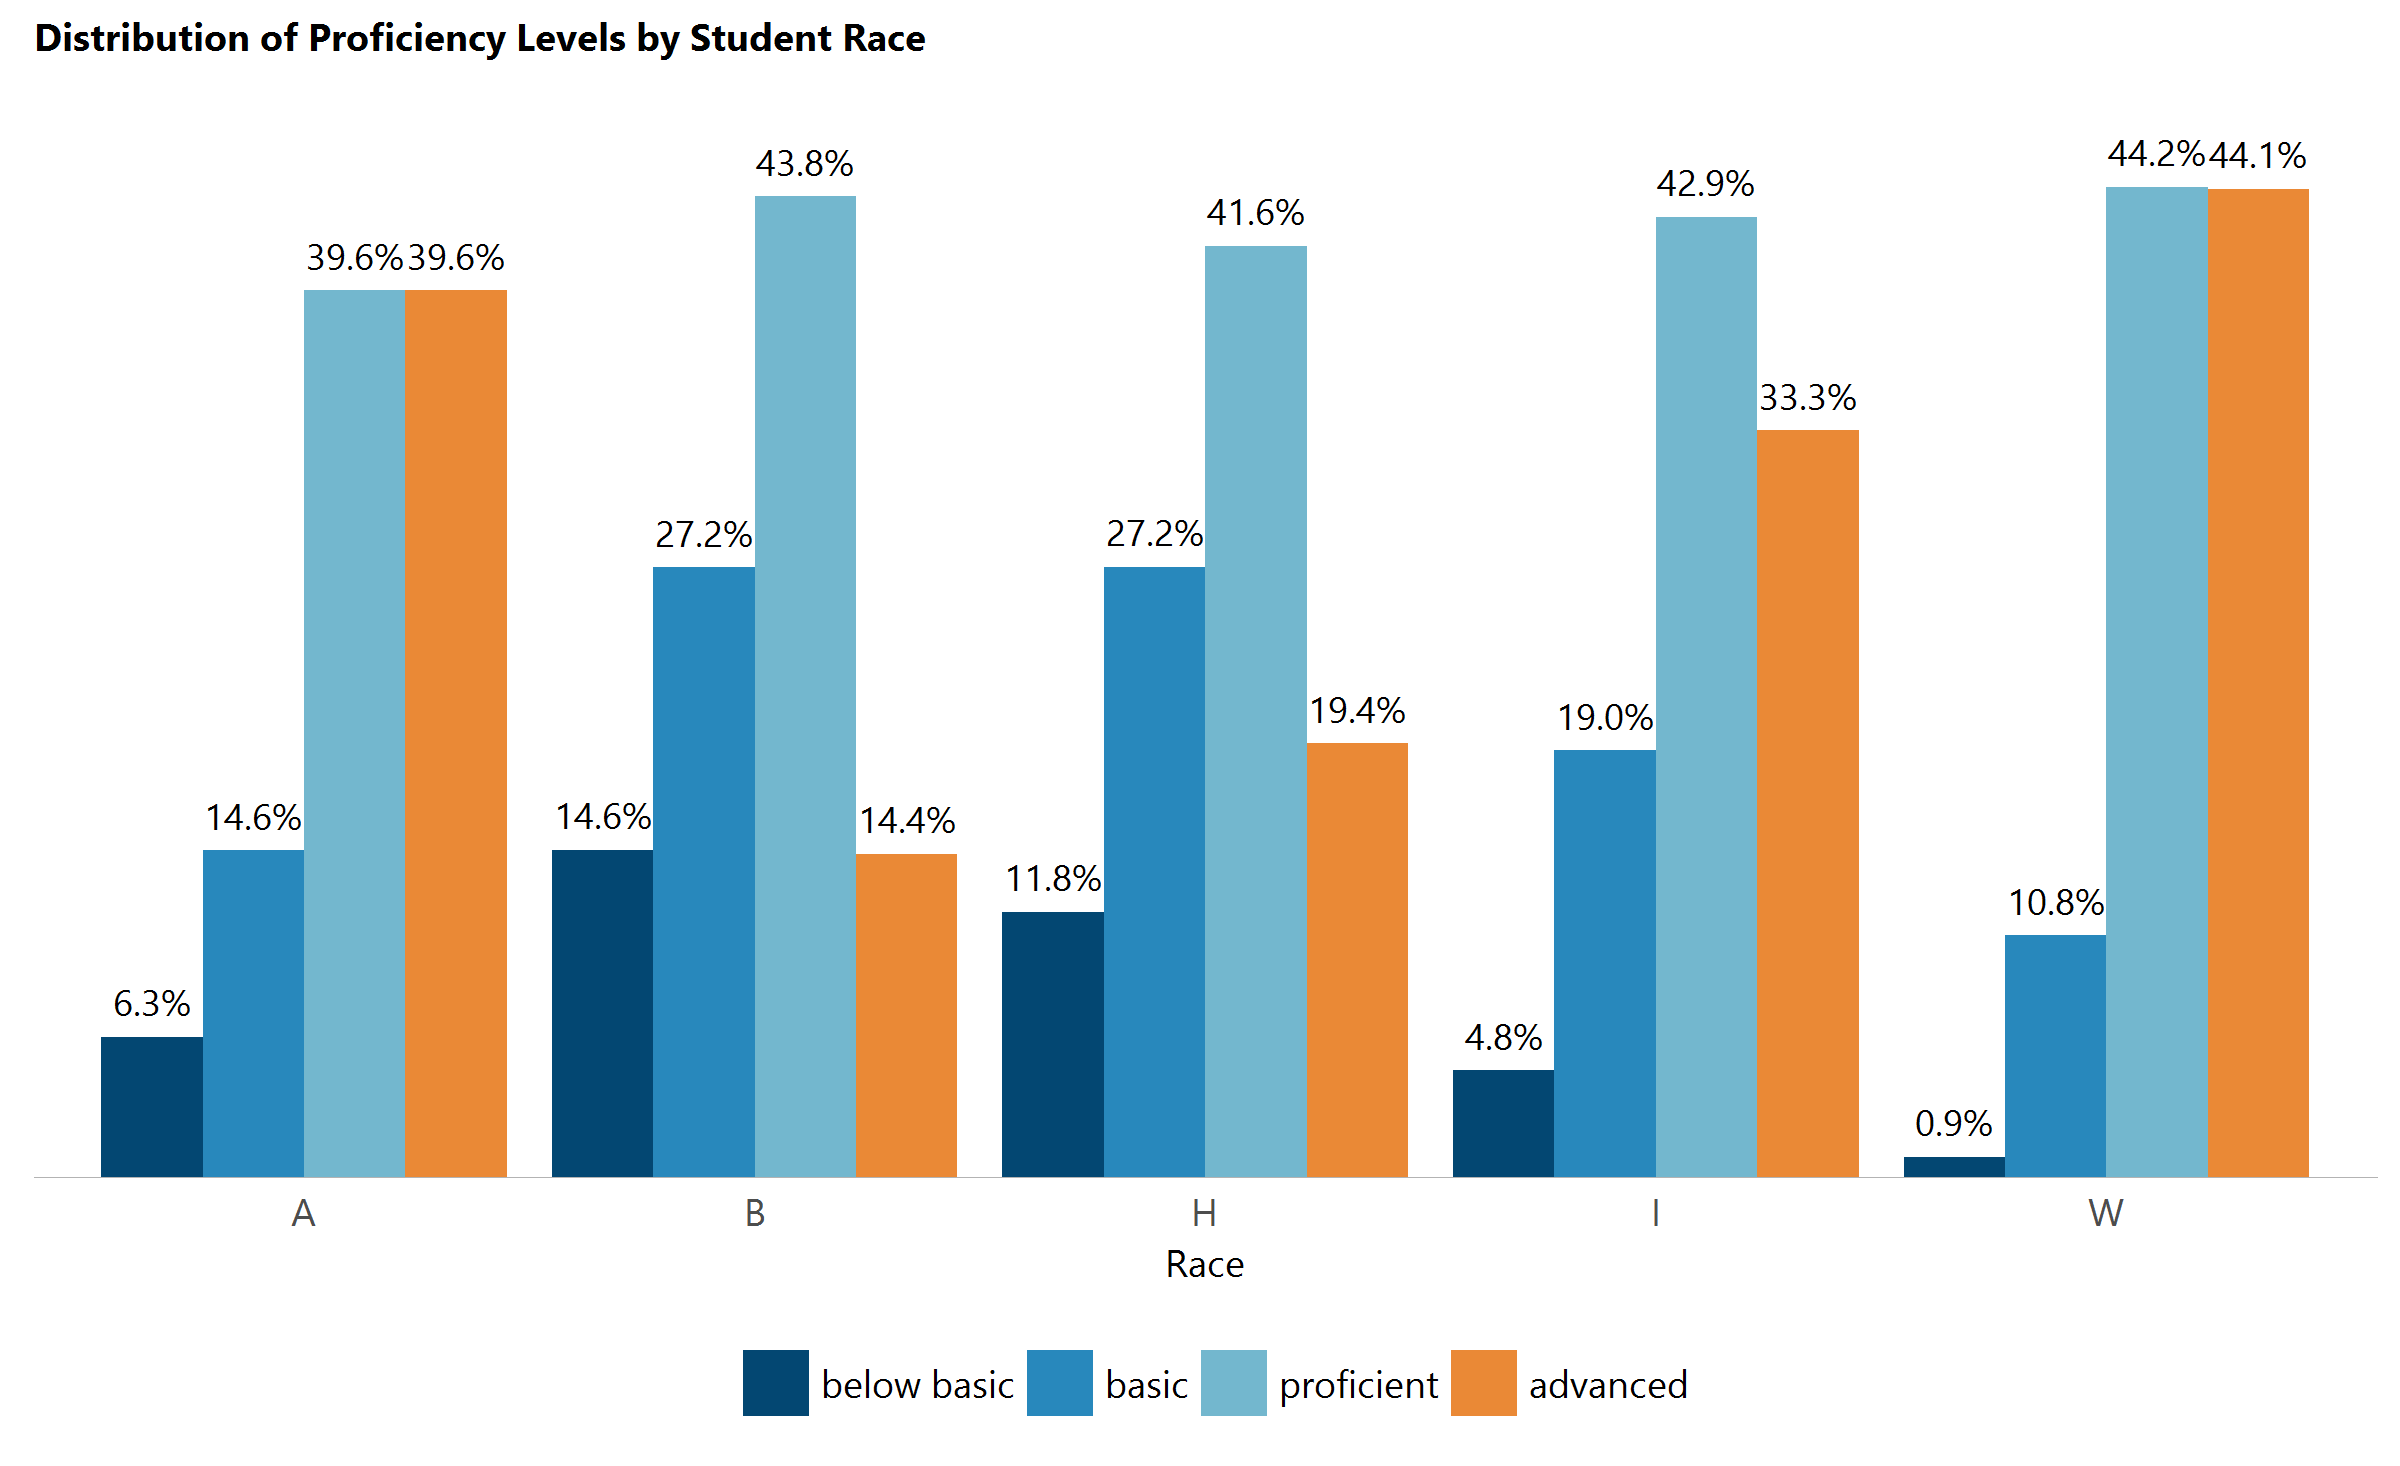
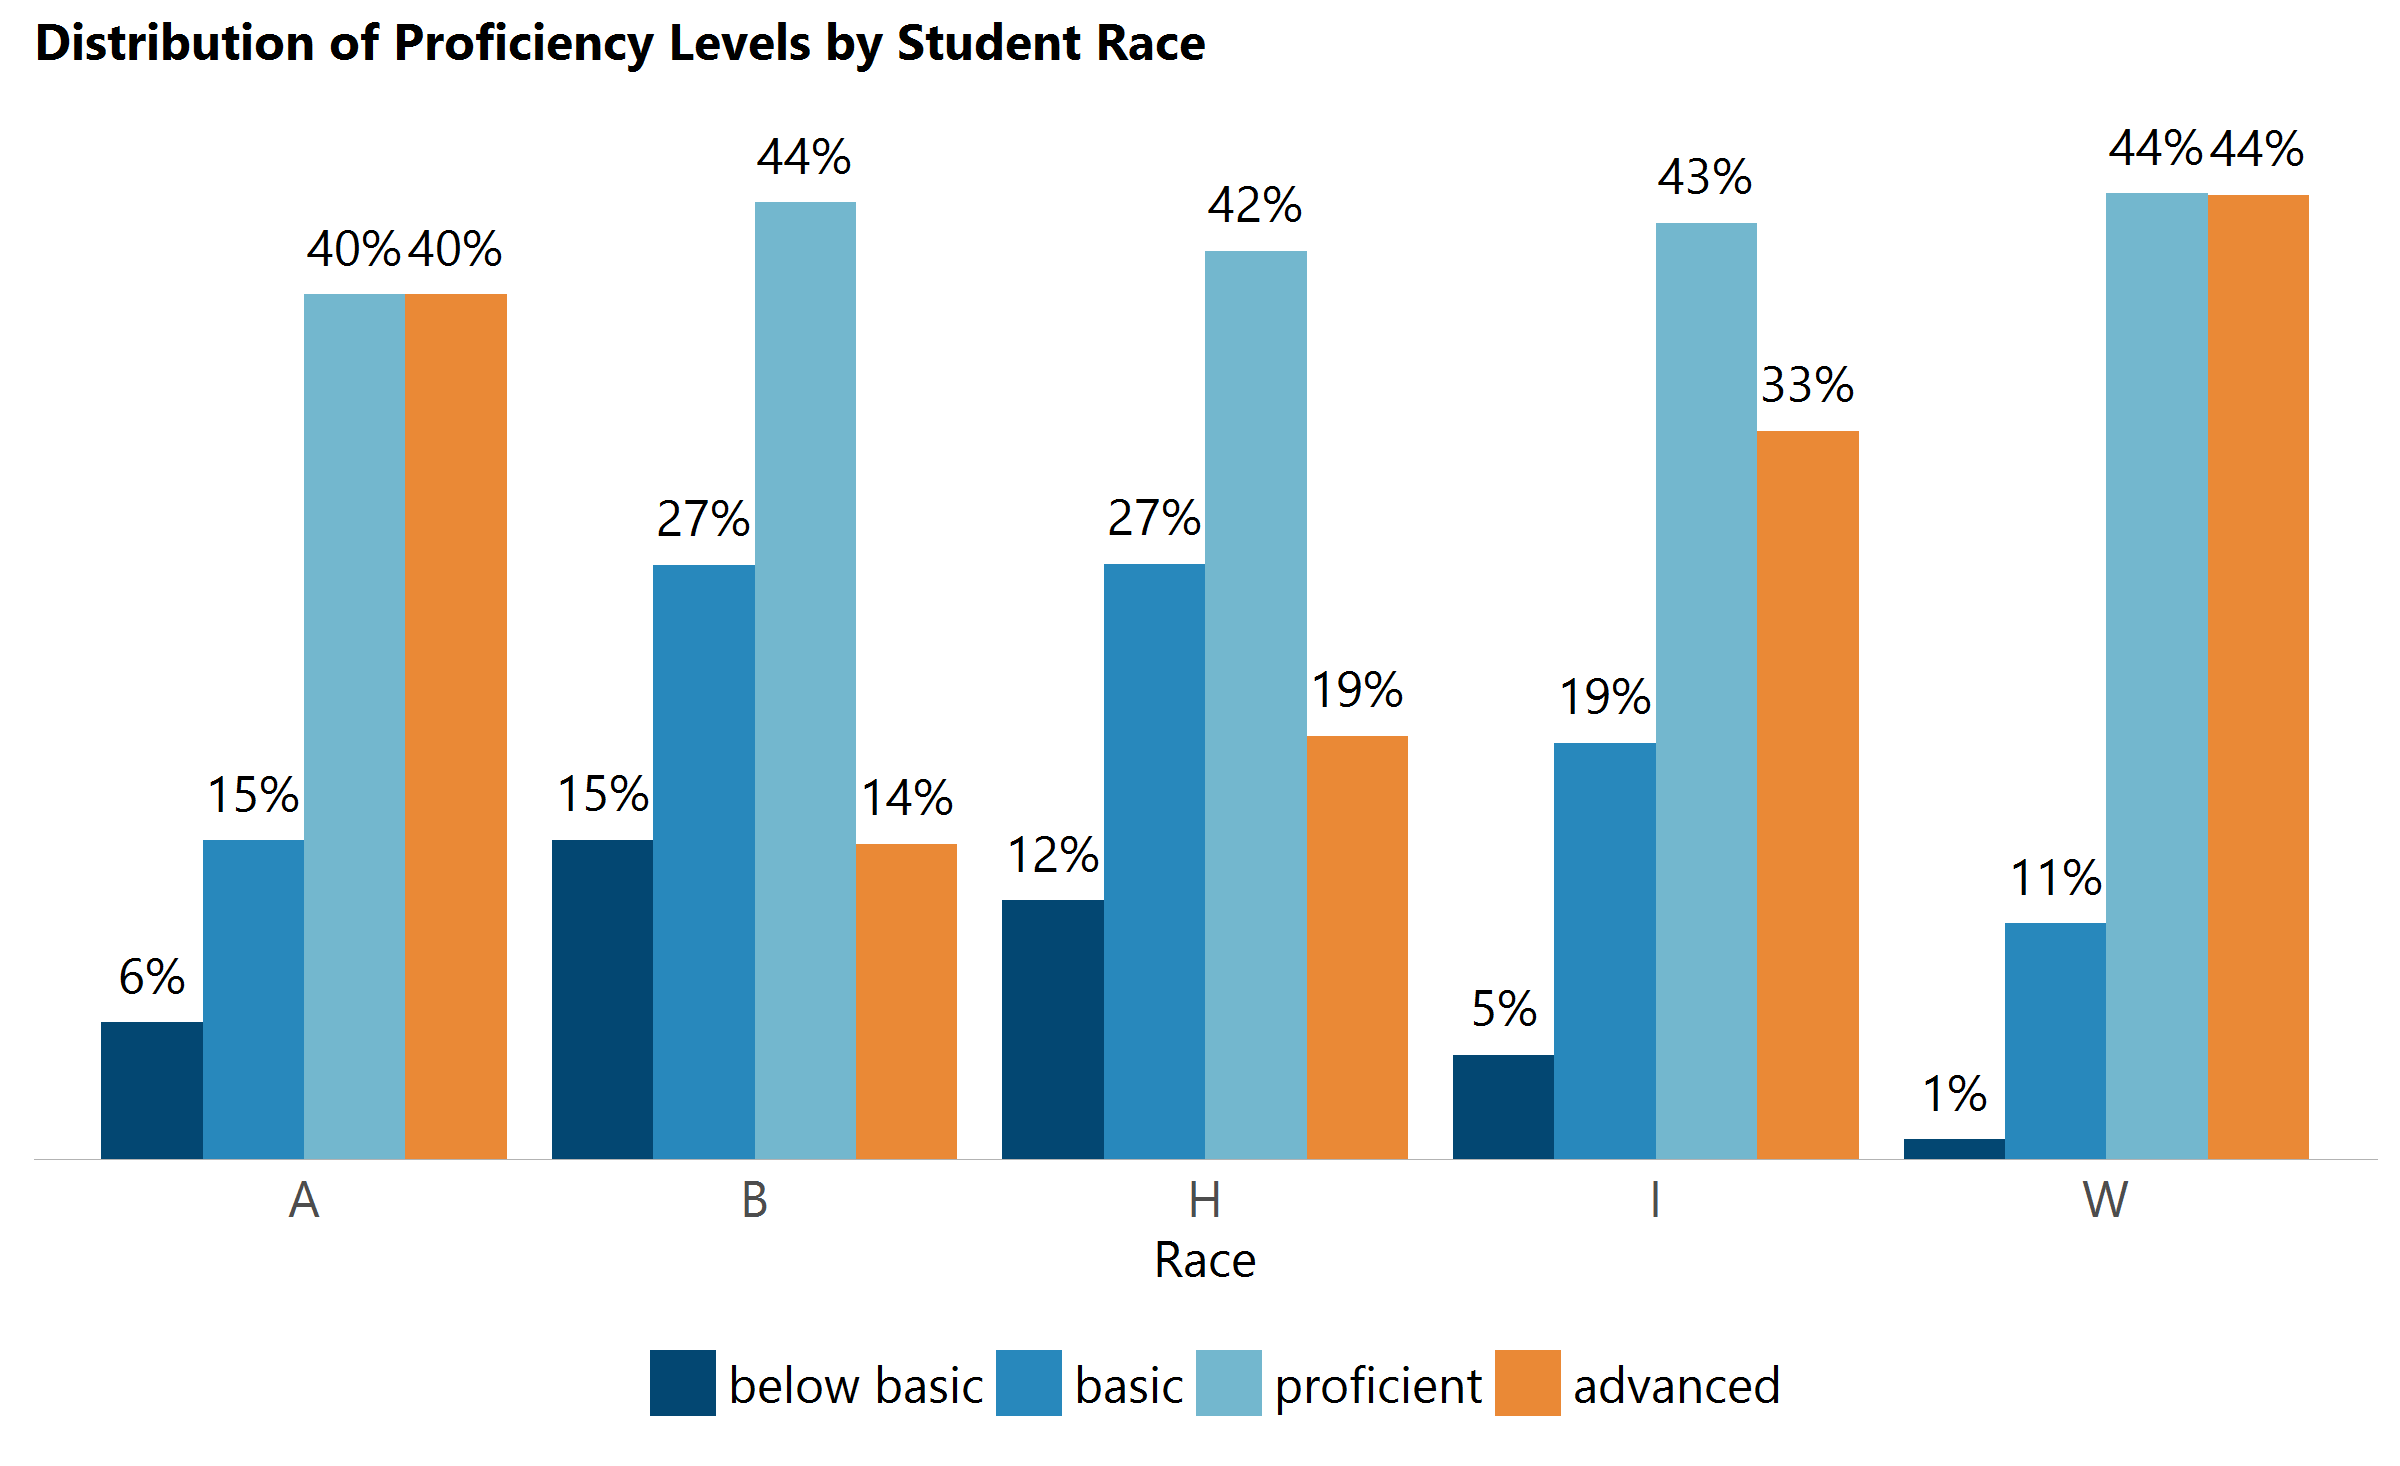
finished tweaking vignette charts

diff --git a/vignettes/introduction.md b/vignettes/introduction.md
@@ -94,7 +94,7 @@ bar_chart_counts(wisc,
                  var_label = "Race",
                  labels = "pct",
                  title = "Distribution of Proficiency Levels by Student Race",
-                 font_size = 9)
+                 digits = 0)
 ```
 
 <img src="introduction_files/figure-markdown_github/chart_functions-2.png" width="750px" />
